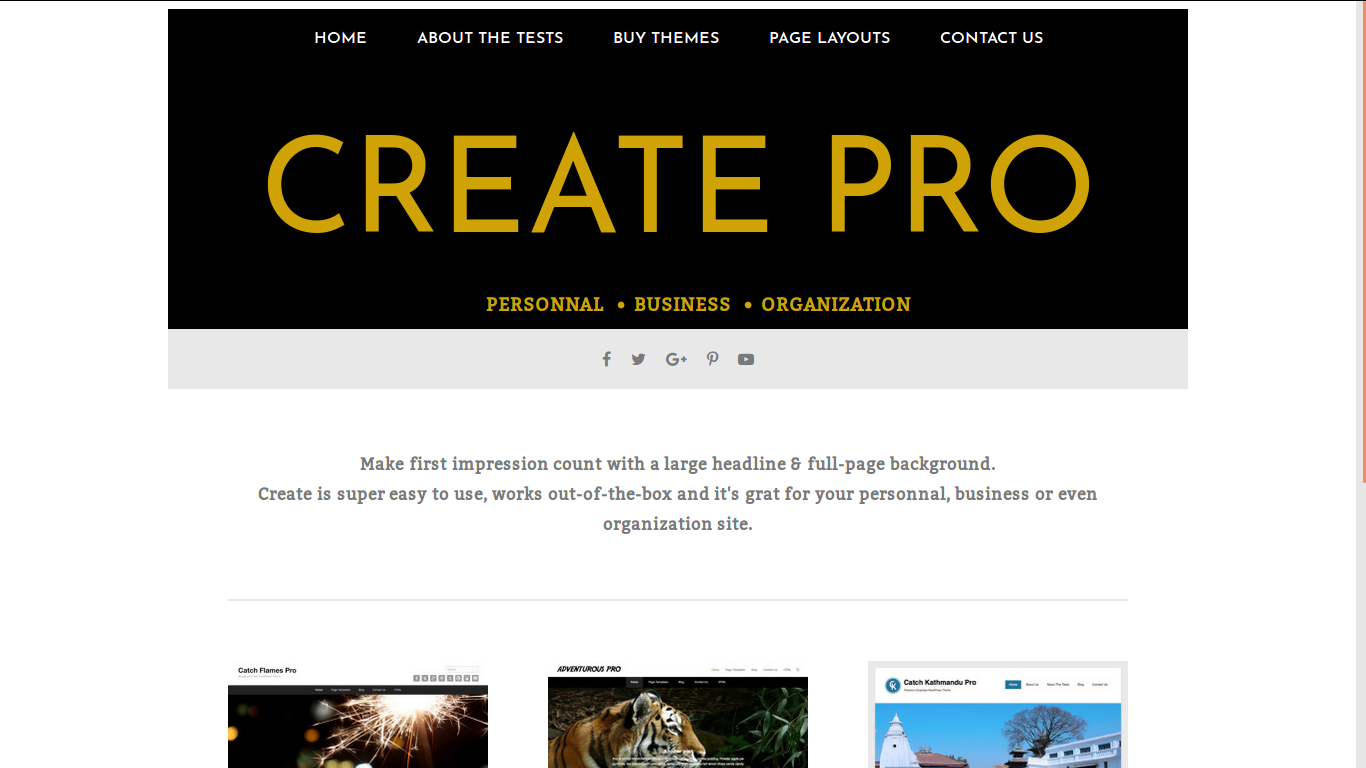
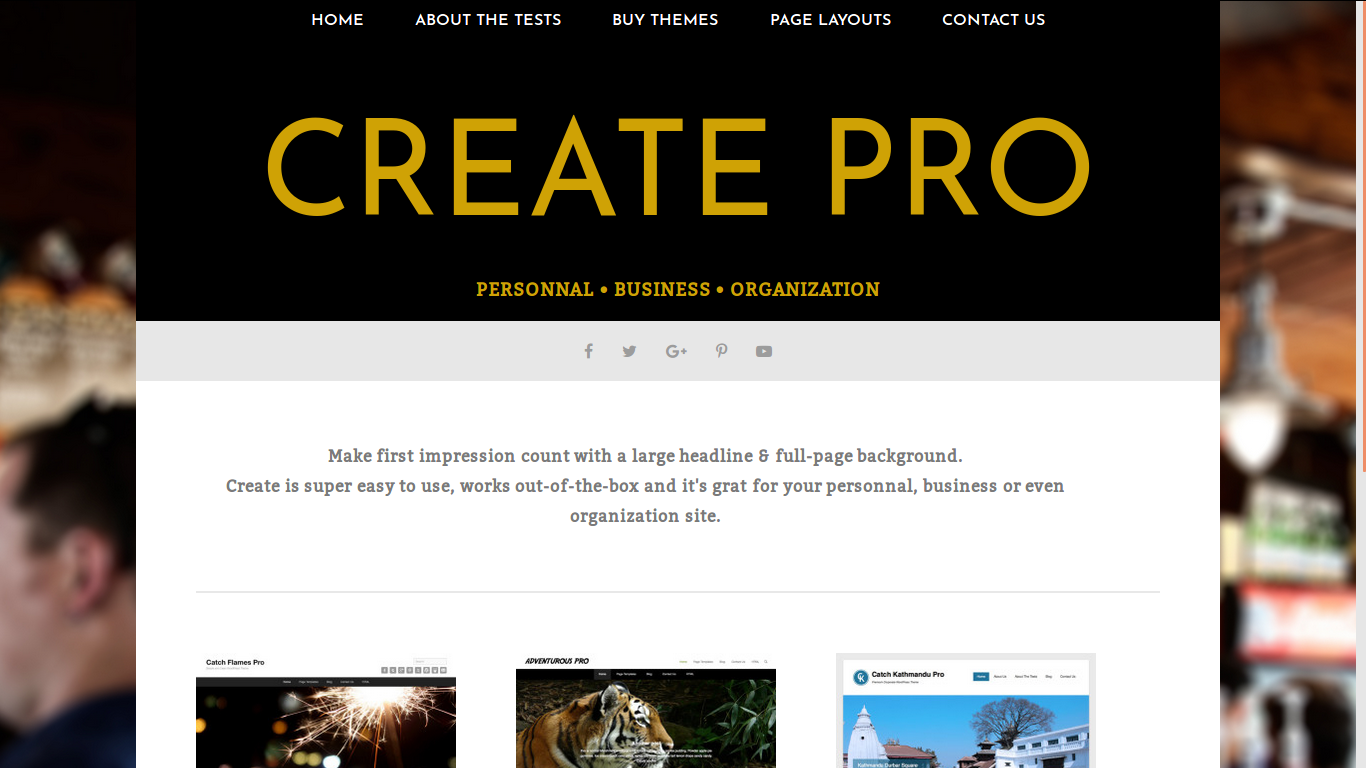
Add css to img

diff --git a/projects.html b/projects.html
@@ -26,12 +26,10 @@
                 </a>
             </div>
             <div class="container">
-                <a href="https://benjibetty.github.io/CreatePro/" class="img1"><img src="assets/img/createpro.png" alt="#"></a>
-                <a href="https://benjibetty.github.io/ThisIsMassively/" class="img2">
-                    <img src="assets/img/massively.png" alt="#">
-                </a>
+                <a href="https://benjibetty.github.io/CreatePro/" class="img1"></a>
+                <a href="https://benjibetty.github.io/ThisIsMassively/" class="img2"></a>
                 <a href="https://benjibetty.github.io/ClickerGame/" class="img3">
-                    <img src="assets/img/clicker.png" alt="#"></a>
+                </a>
                 <a href="" class="img4"></a>
                 <a href="" class="img5"></a>
                 <a href="" class="img6"></a>

diff --git a/assets/css/style.css b/assets/css/style.css
@@ -388,15 +388,21 @@ body {
   .projects .img1 {
     border: 1px solid grey;
     grid-column: 1;
-    grid-row: 1; }
+    grid-row: 1;
+    background-image: url("../../assets/img/createpro.png");
+    background-size: cover; }
   .projects .img2 {
     border: 1px solid grey;
     grid-column: 2;
-    grid-row: 1; }
+    grid-row: 1;
+    background-image: url("../../assets/img/massively.png");
+    background-size: cover; }
   .projects .img3 {
     border: 1px solid grey;
     grid-column: 3;
-    grid-row: 1; }
+    grid-row: 1;
+    background-image: url("../../assets/img/clicker.png");
+    background-size: cover; }
   .projects .img4 {
     border: 1px solid grey;
     grid-column: 1;

diff --git a/assets/scss/style.scss b/assets/scss/style.scss
@@ -231,16 +231,22 @@ body {
         border: 1px solid grey;
         grid-column: 1;
         grid-row: 1;
+        background-image: url('../../assets/img/createpro.png');
+        background-size: cover;
     }
     .img2 {
         border: 1px solid grey;
         grid-column: 2;
         grid-row: 1;
+        background-image: url('../../assets/img/massively.png');
+        background-size: cover;
     }
     .img3 {
         border: 1px solid grey;
         grid-column: 3;
         grid-row: 1;
+        background-image: url('../../assets/img/clicker.png');
+        background-size: cover;
     }
     .img4 {
         border: 1px solid grey;
